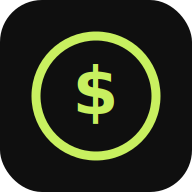
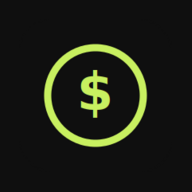
Update project files (2026-11-08 22:52)

diff --git a/index.html b/index.html
@@ -444,9 +444,9 @@
         <div class="fb-loading-logo-wrap">
           <div class="fb-loading-ring"></div>
           <svg aria-hidden="true" width="30" height="30" viewBox="0 0 24 24" fill="none" stroke="#c8f060" stroke-width="1.8" stroke-linecap="round" stroke-linejoin="round">
-            <rect x="3" y="11" width="18" height="10" rx="2.5" />
-            <path d="M7 11V8a5 5 0 0 1 10 0v3" />
-            <circle cx="12" cy="16" r="1.4" fill="#c8f060" stroke="none" />
+          <circle cx="12" cy="12" r="10" />
+          <path d="M12 6v12" />
+          <path d="M15.5 9.2C15.2 8 13.8 7.4 12 7.4 10 7.4 8.6 8.4 8.6 9.9 8.6 11.4 9.8 11.9 12 12.4 14.2 12.9 15.4 13.4 15.4 15 15.4 16.5 14 17.5 12 17.5 10.2 17.5 8.8 16.8 8.5 15.6" />
           </svg>
         </div>
         <div class="fb-loading-text">Cargando Mis Finanzas</div>
@@ -543,10 +543,10 @@
     <div id="fb-login-screen">
       <div class="fb-logo">
         <svg aria-hidden="true" width="34" height="34" viewBox="0 0 24 24" fill="none" stroke="#c8f060" stroke-width="1.8" stroke-linecap="round" stroke-linejoin="round">
-          <rect x="3" y="11" width="18" height="10" rx="2.5" />
-          <path d="M7 11V8a5 5 0 0 1 10 0v3" />
-          <circle cx="12" cy="16" r="1.4" fill="#c8f060" stroke="none" />
-        </svg>
+          <circle cx="12" cy="12" r="10" />
+          <path d="M12 6v12" />
+          <path d="M15.5 9.2C15.2 8 13.8 7.4 12 7.4 10 7.4 8.6 8.4 8.6 9.9 8.6 11.4 9.8 11.9 12 12.4 14.2 12.9 15.4 13.4 15.4 15 15.4 16.5 14 17.5 12 17.5 10.2 17.5 8.8 16.8 8.5 15.6" />
+          </svg>
       </div>
       <div class="fb-title">Mis Finanzas</div>
       <div class="fb-sub">Tus finanzas personales, siempre sincronizadas entre

diff --git a/sw.js b/sw.js
@@ -2,7 +2,7 @@
 const VERSION = 'mis-finanzas-v114'; // bump manual en cada despliegue; qué cambió en cada versión vive en docs/CHANGELOG.md (no aquí)
 // Huella del contenido desplegable: la sella `node scripts/sellar-sw.js` (y `npm test` falla si quedó vieja). Así, aunque se olvide
 // subir VERSION, la caché cambia de nombre en cuanto cambia cualquier archivo y no se sirven los .js anteriores.
-const BUILD = 'b14a452898ed'; // sellado por scripts/sellar-sw.js — NO editar a mano (huella del contenido desplegable)
+const BUILD = '962fab85d469'; // sellado por scripts/sellar-sw.js — NO editar a mano (huella del contenido desplegable)
 const CACHE = VERSION + '-' + BUILD;
 
 const APP_SHELL = [
